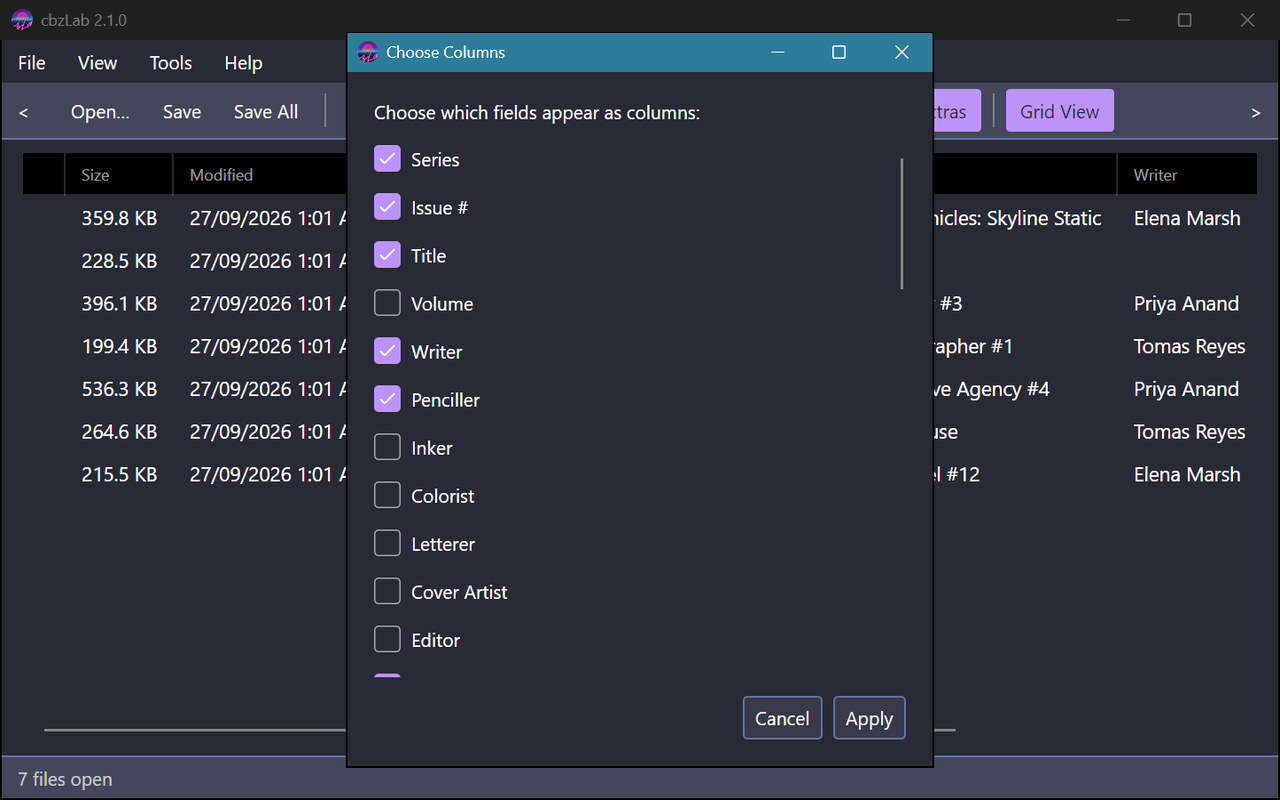
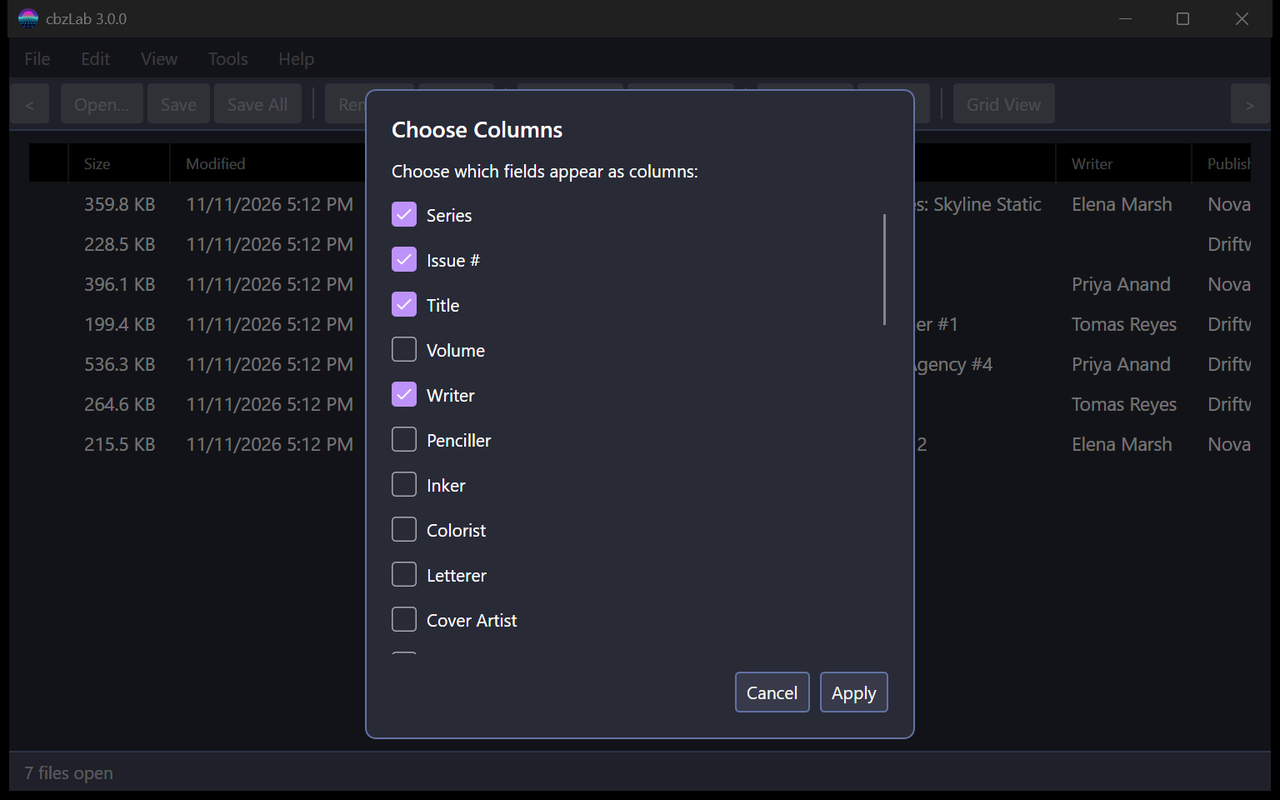
Docs for 3.0.0: undo, rename, regex Find & Replace, trimming; retake screenshots
Every desktop screenshot retaken on the released 3.0.0 build (the menu bar gained
Edit, and dialogs now open inside the window), plus new ones for Rename Files from
Metadata and Find & Replace. BUILDING.md: the test suite as it is now, trimmed
publishes and StoreJson, CBZLAB_CONFIG_DIR, current package versions.

diff --git a/docs/USER_GUIDE.md b/docs/USER_GUIDE.md
@@ -48,12 +48,29 @@
   Year, Month and Day. Type a full date in your own locale's order, a month and
   year (`03/2019`, `March 2019` or `2019-03`), or a year alone - a partial date
   stays partial rather than gaining a day of 1. The year needs all four digits,
-  so a half-typed date isn't applied until it's complete.
+  so a half-typed date isn't applied until it's complete. The calendar button
+  beside it picks a full date instead; cancelling it leaves the date as it was.
 - Single-line fields (Writer, Publisher, Imprint, and so on) remember what you've
   typed into them before. A small picker button appears beside the field once
   it has any history - click it to pick a recent value instead of retyping.
   Doesn't apply to multi-line fields (Summary, Notes) or dropdown fields (which
   already have their own curated list of options).
+
+## Undo and redo
+
+**Edit → Undo** (Ctrl+Z) and **Edit → Redo** (Ctrl+Y or Ctrl+Shift+Z) step back
+and forward through changes to field values, across every open book. The menu
+names the step it would act on ("Undo Find & Replace").
+
+- Typing in a field is one step, however many keystrokes, until you leave the
+  field. A batch edit is one step for every book it touched.
+- A tool run is one step too, whatever it changed: Find & Replace, Guess from
+  Filename, Auto Page Count, Paste XML, Copy Fields, a ComicVine match.
+- While the cursor is in a field, Ctrl+Z undoes your typing in that box, as in
+  any text box. Click elsewhere first, or use the Edit menu, for the app's undo.
+- Undo reaches back past a save (the book is simply unsaved again), but not past
+  closing or reverting a book, which forget that book's steps.
+- Undo and Redo can also go on the toolbar (Tools → Customize Toolbar).
 
 ## Batch editing
 
@@ -154,8 +171,8 @@ the RAR format can only be created by WinRAR's own `rar.exe`:
   fields that are currently empty; never overwrites anything you've already
   set. Works across a whole batch selection, since each file's own path is
   used independently.
-- **Auto Page Count** - counts image files in the current archive and writes the
-  result to the Page Count field. Also runs automatically on open (fills the field
+- **Auto Page Count** - counts image files in each selected archive and writes the
+  result to its Page Count field. Also runs automatically on open (fills the field
   only when it's empty, without marking the file unsaved - it's written along
   with your next real edit; configurable in Settings). macOS leftovers such as
   `__MACOSX` folders and `._` files are never counted as pages.
@@ -163,12 +180,32 @@ the RAR format can only be created by WinRAR's own `rar.exe`:
   on the clipboard.
 - **Paste XML** - replaces the current file's metadata from ComicInfo XML on the
   clipboard. Handy for cloning metadata between files.
+- **Find & Replace** - replaces text in one field, or in **All fields** at once,
+  across the selected files (every open file when none are selected). Tick
+  **Regular expression** for patterns: `^(\S+) (.+)$` replaced with `$2, $1` turns
+  "Elena Marsh" into "Marsh, Elena". Before anything changes you're told how many
+  values and files it would touch, with an example of one change.
+
+  ![Find & Replace confirming a regular-expression change to the Writer field, Gruvbox Dark theme](screenshots/findreplace-gruvbox-dark.png)
+
+- **Rename Files from Metadata** - renames the selected files (every open file when
+  none are selected) from a pattern such as `{Series} #{Number:000} ({Year})`. Any
+  ComicInfo field can go in braces; `{Number:000}` pads a number to three digits.
+  A field with no value leaves nothing behind, brackets and `#` included, and
+  characters a file name can't hold are replaced. Every new name is shown before
+  anything happens, updating as you type the pattern. A file whose new name is
+  already taken, on disk or by another book in the same rename, is left as it is:
+  nothing is ever overwritten. Files are renamed where they are, contents
+  untouched, and the pattern is remembered for next time. Desktop only.
+
+  ![Rename Files from Metadata previewing seven books, Nord theme](screenshots/rename-nord.png)
 
 ## Settings, themes and storage
 
 ![Settings dialog, Tokyo Night theme](screenshots/settings-tokyo-night.png)
 
-**Tools → Settings** covers theme, editor font size and font, default field
+**Tools → Settings** covers theme, editor font size and font (any font installed
+on your computer), default field
 visibility, default save format, batch-save confirmation, auto page count,
 recent-files length, the RAR tool path, whether the first opened file is
 auto-selected, whether the sidebar filter clears when new files are opened,
@@ -198,10 +235,13 @@ find the matching issue - confirming an auto-match rather than applying it
 silently, since issue-number matching can be genuinely ambiguous (variant
 covers, facsimile editions, reprints). A series you've already matched is
 remembered, so tagging several issues from the same run only needs one real
-search. Once an issue is confirmed, a review dialog shows only the fields
-where ComicVine's data actually differs from what's already in the file -
-current value and proposed value shown side by side - so you can judge each
-one before it's applied. Nothing is written unless you tick it and confirm.
+search. Once an issue is confirmed, a review dialog names the series and issue
+it matched, and shows only the fields where ComicVine's data actually differs
+from what's already in the file - current value and proposed value shown side
+by side - so you can judge each one before it's applied. Nothing is written
+unless you tick it and confirm. If the remembered series turns out to be the
+wrong one, **Change Series…** (in the issue list or the review) searches again,
+and remembers the series you pick instead.
 
 Selecting **multiple files** and running Search ComicVine does one series
 search for the whole batch, then matches each file to its own issue
@@ -215,14 +255,19 @@ files carry it, since that's exactly the situation worth a second look
 before applying - it might be a genuine change partway through the run, or
 it might be a mismatch. Fields that are naturally expected to vary issue to
 issue (Number, Title, dates, Summary) aren't held to that comparison at
-all. Any file that can't be matched is skipped and named at the end so it
-can be re-run on its own.
+all. When a file's issue has to be picked by hand, **Skip This Book** leaves
+it out and carries on with the rest, and **Cancel All** stops the whole run
+with nothing changed. Any file that's skipped is named at the end so it can be
+re-run on its own.
 
 Two more preferences are remembered automatically, without a Settings control,
 since they're already directly adjustable in the main window itself: the sidebar
-sort mode (the dropdown above the file list) and the window's size and position.
+sort mode (the dropdown above the file list) and the window's size and position,
+including whether it was maximised.
 
-Everything lives in `%APPDATA%\cbzLab`:
+Everything lives in `%APPDATA%\cbzLab` (`~/.config/cbzLab` on Linux), unless the
+`CBZLAB_CONFIG_DIR` environment variable names another folder - handy for trying
+a build without touching your real settings, or for a portable copy:
 
 | File / folder            | Purpose                                              |
 |--------------------------|------------------------------------------------------|
@@ -296,14 +341,15 @@ between Basic Info, Publication, Creators, Story and Extras. Fields with a fixed
 open a list from the bottom of the screen, and the date has a calendar button as well as being
 typed. Long-press a field for Cut, Copy and Paste, **Undo changes to this field**, and **About this
 field**, which explains what it's for. Whole-number fields open the number keypad. The **Save**
-button carries a dot while the book has unsaved changes; **⋮** has Save as, Revert, Close, Show
-all fields, and the tools (Guess from filename, Count pages, Copy or Paste ComicInfo.xml, Trim
-branding footers).
+button carries a dot while the book has unsaved changes; **⋮** has Undo and Redo (naming the step,
+as on the desktop), Save as, Revert, Close, Show all fields, and the tools (Guess from filename,
+Count pages, Copy or Paste ComicInfo.xml, Trim branding footers). The library's **⋮** has Undo and
+Redo too.
 
 **Several books at once.** Long-press a book to start selecting, then tap others to add or remove
 them. The app bar shows how many are selected, with **Select all**, **Edit together** (the pencil),
-**Save** and **⋮** (Close, Search ComicVine, Find and replace, Copy fields from one book to the
-rest, Combine into one book). **✕** or Back stops selecting. Closing books offers **Undo** for a
+**Save** and **⋮** (Close, Search ComicVine, Guess from filename, Count pages, Find and replace,
+Copy fields from one book to the rest, Combine into one book). **✕** or Back stops selecting. Closing books offers **Undo** for a
 few seconds.
 
 **Grid view.** **⋮ → Grid view** shows the books as cards: the cover, with the details chosen in
@@ -322,9 +368,10 @@ edits are recovered the next time you open it.
 that needs an external RAR program. Saving a book that came as a CBR asks where to save a CBZ
 copy; the original CBR is never touched.
 
-**Not on Android.** Open Containing Folder, the RAR tool setting, the editor font and layout
-settings, the folder shortcuts in Settings, the customisable toolbar, and the self-updater (install
-new versions from the releases page).
+**Not on Android.** Open Containing Folder, Rename Files from Metadata (Android hands cbzLab
+documents, not files it can rename), the RAR tool setting, the editor font and layout settings, the
+folder shortcuts in Settings, the customisable toolbar, and the self-updater (install new versions
+from the releases page).
 
 ### How it compares
 
@@ -334,6 +381,8 @@ new versions from the releases page).
 | Open and edit CBR | Yes | Yes |
 | Write CBR | With an external RAR tool | No: saves a CBZ copy instead |
 | Batch editing, Find & Replace, Copy fields | Yes | Yes (long-press to select) |
+| Undo and redo | Yes | Yes, from the ⋮ menus |
+| Rename files from metadata | Yes | No |
 | ComicVine search, single and batch | Yes | Yes |
 | Combine Archives, Trim Branding Footers | Yes | Yes; very large books are slower on a phone |
 | Open Folder | Yes | Yes, through Android's folder picker |

diff --git a/docs/BUILDING.md b/docs/BUILDING.md
@@ -35,12 +35,23 @@ NuGet packages restore automatically on first build.
 dotnet test cbzLab.Tests/cbzLab.Tests.csproj
 ```
 
-29 xUnit tests cover the pure/injectable logic - `DateFieldHelper`,
-`ComicInfoXml`, `JsonFileStore`, `AutosaveService`. `SettingsService`,
-`SchemaService`, and `ValidationService` aren't tested directly: all three
-resolve to the real, shared `%APPDATA%\cbzLab` directory with no injectable
-override today, so constructing them for real in a test would risk touching
-your actual settings/schema/logs.
+About 340 xUnit tests cover the services and view models: archives, ComicInfo
+XML, validation, settings, undo, Find & Replace, file-name patterns, the
+updater's asset choice and hash check, and more. Tests that need real settings
+get a throwaway config folder of their own (`TestConfig`), so they never touch
+your actual `%APPDATA%\cbzLab`.
+
+The tests run with reflection-based JSON switched off, as the trimmed release
+build does (see below), so a stored type that's missing from `StoreJson` fails a
+test rather than a release.
+
+To try a build of your own without touching your real settings, point it at a
+scratch folder first:
+
+```powershell
+$env:CBZLAB_CONFIG_DIR = "$env:TEMP\cbzlab-scratch"
+dotnet run --project cbzLab/cbzLab.csproj
+```
 
 ## Building a distributable executable
 
@@ -59,6 +70,18 @@ dotnet publish cbzLab/cbzLab.csproj -c Release -r linux-x64 --self-contained tru
 These are exactly the commands the project's own release workflow
 (`.github/workflows/release.yml`) runs for each platform, so a passing publish
 here means the same thing a real release build does.
+
+Release publishes are **trimmed** (`PublishTrimmed`, `TrimMode=partial`): the parts
+of .NET and Avalonia the app never calls are left out, which halves the
+executable (about 25 MB on Windows). Two consequences for anyone changing the code:
+
+- A trimmed build has no reflection-based JSON. Every type saved to or read from
+  the config folder, and every ComicVine response shape, has a source-generated
+  serialiser listed in `cbzLab.Core/Services/StoreJson.cs`. A new stored type must
+  be added there.
+- `partial` keeps cbzLab's own assemblies whole, which is what lets the views'
+  name-based bindings (`new Binding("Value")`) find their properties. Switching to
+  full trimming would need those turned into compiled bindings first.
 
 Without an explicit `-o`, the output lands in
 `cbzLab/bin/Release/net10.0/<rid>/publish/`. Managed dependencies (including
@@ -83,9 +106,9 @@ can test isn't worth the CI time.
 
 | Package | Version | Used for |
 |---|---|---|
-| `Avalonia` / `Avalonia.Desktop` / `Avalonia.Themes.Fluent` | 12.1.4 | the UI framework itself, desktop windowing, and the Fluent theme (default light/dark chrome - cbzLab's own themes layer on top via `ThemeService`) |
+| `Avalonia` / `Avalonia.Desktop` / `Avalonia.Themes.Fluent` | 12.1.5 | the UI framework itself, desktop windowing, and the Fluent theme (default light/dark chrome - cbzLab's own themes layer on top via `ThemeService`) |
 | `Avalonia.Controls.DataGrid` | 12.1.2 | grid view's table control - needs its own `StyleInclude` in `App.axaml`, since `FluentTheme` alone doesn't style it |
-| `SharpCompress` | 0.50.7 | reading `.cbr`/RAR archives (`ArchiveService`, in `cbzLab.Core`) |
+| `SharpCompress` | 0.50.8 | reading `.cbr`/RAR archives (`ArchiveService`, in `cbzLab.Core`) |
 | `SkiaSharp` | 3.119.4 | cropping and re-encoding pages for Trim Branding Footers (`FooterTrimService`, in `cbzLab.Core`) - pinned to the version Avalonia's own renderer uses; never bump it on its own |
 
 `Avalonia.Diagnostics` (the F12 dev-time inspector) is deliberately not
@@ -144,11 +167,14 @@ cbzLab.UI/                  everything the apps show, shared with the Android ap
   AppStyles.axaml         the Fluent theme and DataGrid styles every app includes
   Dialogs/                 one dialog per .axaml + .cs pair; DialogHost shows a DialogBase dialog
                            inside the window, over a dimmed backdrop
-  Converters/              FieldTemplateSelector (widget dispatch) and FieldValueConverter (grid cell values)
+  Converters/              FieldTemplateSelector (widget dispatch)
+  FieldUi.cs              what the desktop and phone field rows share: keypad hints, the clipboard
+                           menu, the date picker, and the grid's per-field cell binding
 cbzLab.Core/                the code shared with the Android app (see docs/ANDROID_PLAN.md);
                            namespaces are unchanged, still cbzLab.Services etc.
   Services/               settings, schema, themes, xml, archives, validation, ComicVine, autosave
-  ViewModels/              main/file/field view models - data flow, dirty tracking, composite fields
+  ViewModels/              main/file/field view models - data flow, dirty tracking, composite fields,
+                           and UndoHistory
   Models/                  settings, schema, and ComicVine data classes
 cbzLab.Tests/              xUnit tests for the pure/injectable services and helpers
 ```

diff --git a/README.md b/README.md
@@ -11,12 +11,13 @@ edits without installing anything. See [`cbzLite/`](cbzLite/) for what it can an
 
 A metadata editor for comic book archives. cbzLab opens CBZ and CBR files, lets you
 view and edit the `ComicInfo.xml` metadata inside them (single files or whole
-batches at once), and writes changes back safely without ever touching the page
-images.
+batches at once, with undo), and writes changes back safely without ever touching
+the page images. It can also look books up on ComicVine, find and replace across a
+library, and rename files from their metadata.
 
 Built with C# / .NET 10 and **Avalonia UI**. Pre-built releases target Windows and
-Linux, deployed as an unpackaged self-contained executable - no installer, no
-store. (Avalonia itself also runs on macOS, but the project doesn't build or
+Linux, deployed as a single self-contained executable of about 25 MB - no
+installer, no store. (Avalonia itself also runs on macOS, but the project doesn't build or
 ship a macOS release - see [Building from source](#documentation) if you want
 one.)
 
